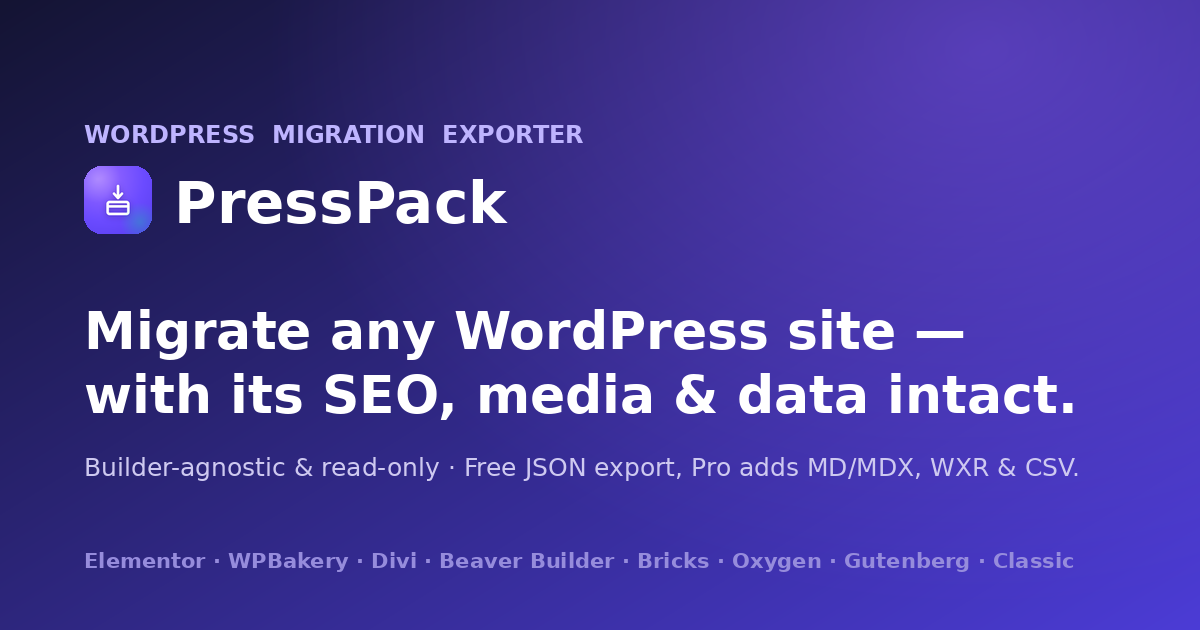
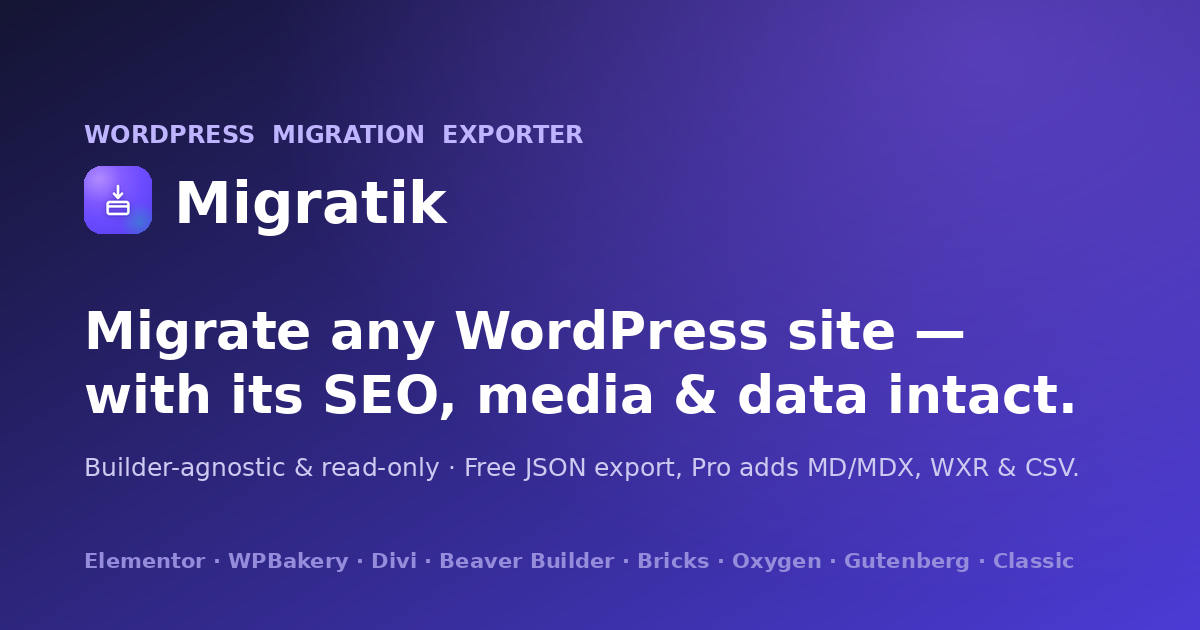
Rebrand landing to Migratik

Changed region(s): [[0.1542, 0.2714, 0.4317, 0.3921]]

diff --git a/index.html b/index.html
@@ -3,21 +3,21 @@
 <head>
 <meta charset="UTF-8">
 <meta name="viewport" content="width=device-width, initial-scale=1.0">
-<title>PressPack — Migrate any WordPress site with its SEO, media & data intact</title>
-<meta name="description" content="PressPack packs up any WordPress site — every article, image, SEO signal, and custom field — into one clean file to migrate anywhere. Builder-agnostic and read-only.">
+<title>Migratik — Migrate any WordPress site with its SEO, media & data intact</title>
+<meta name="description" content="Migratik packs up any WordPress site — every article, image, SEO signal, and custom field — into one clean file to migrate anywhere. Builder-agnostic and read-only.">
 <link rel="icon" type="image/png" href="icon.png">
 <meta property="og:type" content="website">
-<meta property="og:site_name" content="PressPack">
-<meta property="og:title" content="PressPack — Migrate any WordPress site with its SEO, media &amp; data intact">
+<meta property="og:site_name" content="Migratik">
+<meta property="og:title" content="Migratik — Migrate any WordPress site with its SEO, media &amp; data intact">
 <meta property="og:description" content="Builder-agnostic, read-only WordPress exporter. Free JSON export; Pro adds Markdown/MDX, WXR, CSV, and one-click media bundling.">
-<meta property="og:url" content="https://hossamhamdy99.github.io/presspack-site/">
-<meta property="og:image" content="https://hossamhamdy99.github.io/presspack-site/og-image.png">
+<meta property="og:url" content="https://hossamhamdy99.github.io/migratik-site/">
+<meta property="og:image" content="https://hossamhamdy99.github.io/migratik-site/og-image.png">
 <meta property="og:image:width" content="1200">
 <meta property="og:image:height" content="630">
 <meta name="twitter:card" content="summary_large_image">
-<meta name="twitter:title" content="PressPack — Migrate any WordPress site, intact">
-<meta name="twitter:description" content="Builder-agnostic, read-only WordPress exporter. Free JSON export; Pro adds Markdown/MDX, WXR, CSV &amp; media bundling.">
-<meta name="twitter:image" content="https://hossamhamdy99.github.io/presspack-site/og-image.png">
+<meta name="twitter:title" content="Migratik — Migrate any WordPress site, intact">
+<meta name="twitter:description" content="Builder-agnostic, read-only WordPress exporter. Free JSON export; Pro adds Markdown/MDX, WXR, CSV & media bundling.">
+<meta name="twitter:image" content="https://hossamhamdy99.github.io/migratik-site/og-image.png">
 <style>
   :root{
     --ink:#0f1222; --ink-2:#2a2f45; --muted:#5b6178; --line:#e7e9f2;
@@ -151,14 +151,14 @@
 
 <nav>
   <div class="wrap nav-in">
-    <div class="logo"><span class="mark">◲</span> PressPack</div>
+    <div class="logo"><span class="mark">◲</span> Migratik</div>
     <div class="nav-links">
       <a href="#how">How it works</a>
       <a href="#formats">Formats</a>
       <a href="#proof">Proof</a>
       <a href="#pricing">Pricing</a>
     </div>
-    <a href="#pricing" class="btn btn-primary" style="padding:10px 20px;font-size:15px">Get PressPack Pro</a>
+    <a href="#pricing" class="btn btn-primary" style="padding:10px 20px;font-size:15px">Get Migratik Pro</a>
   </div>
 </nav>
 
@@ -167,9 +167,9 @@
   <div class="wrap">
     <div class="eyebrow">WordPress migration, done right</div>
     <h1>Move any WordPress site — with its SEO, media &amp; data intact.</h1>
-    <p class="sub">PressPack packs up your entire site — every article, page, custom post type, image, and SEO signal — and exports it to whatever your new stack needs. Headless, another WordPress, or a spreadsheet. No developer required.</p>
+    <p class="sub">Migratik packs up your entire site — every article, page, custom post type, image, and SEO signal — and exports it to whatever your new stack needs. Headless, another WordPress, or a spreadsheet. No developer required.</p>
     <div class="cta-row">
-      <a href="#pricing" class="btn btn-primary">Get PressPack Pro →</a>
+      <a href="#pricing" class="btn btn-primary">Get Migratik Pro →</a>
       <a href="#how" class="btn btn-ghost">See how it works</a>
     </div>
     <p class="note">Free core plugin — coming soon to WordPress.org · Pro unlocks every format &amp; one-click media bundling · Read-only &amp; safe</p>
@@ -265,7 +265,7 @@
     <div class="proof">
       <div class="eyebrow" style="color:#a68bff">Proven on a real migration</div>
       <h2>A live clinic site → Next.js, nothing lost.</h2>
-      <p class="lead">PressPack was built migrating a real WPBakery + JetEngine clinic site to a headless stack. Every doctor profile, article, and image came across — including Arabic slugs and filenames.</p>
+      <p class="lead">Migratik was built migrating a real WPBakery + JetEngine clinic site to a headless stack. Every doctor profile, article, and image came across — including Arabic slugs and filenames.</p>
       <div class="stats">
         <div class="stat"><div class="n">100%</div><div class="l">of data captured</div></div>
         <div class="stat"><div class="n">41</div><div class="l">media files bundled, self-contained</div></div>
@@ -282,7 +282,7 @@
     <div class="section-head" style="margin-inline:auto;text-align:center">
       <div class="eyebrow">Pricing</div>
       <h2>Simple, one-time-friendly pricing.</h2>
-      <p style="margin-inline:auto">Migration is often a one-time job — so PressPack Pro is priced to pay for itself on a single migration. One year of updates &amp; support; renew only if you want to.</p>
+      <p style="margin-inline:auto">Migration is often a one-time job — so Migratik Pro is priced to pay for itself on a single migration. One year of updates &amp; support; renew only if you want to.</p>
     </div>
     <div class="price-grid">
       <div class="price">
@@ -331,7 +331,7 @@
       <div class="eyebrow">FAQ</div>
       <h2>Questions, answered.</h2>
     </div>
-    <details open><summary>Is it safe to run on a live site?</summary><p>Yes. PressPack is read-only — it only reads your content and hands you a file. It never changes your posts, database, or settings, and leaves nothing behind when deleted.</p></details>
+    <details open><summary>Is it safe to run on a live site?</summary><p>Yes. Migratik is read-only — it only reads your content and hands you a file. It never changes your posts, database, or settings, and leaves nothing behind when deleted.</p></details>
     <details><summary>Which page builders are supported?</summary><p>Elementor, WPBakery, Divi, Beaver Builder, Bricks, Oxygen, Gutenberg, and the Classic editor. Each item is rendered with the right method and tagged so nothing renders empty.</p></details>
     <details><summary>Do I need to be a developer?</summary><p>No. Everything happens with a dropdown and a button inside your WordPress admin — pick a format, click download. No command line, no code.</p></details>
     <details><summary>What happens to my images?</summary><p>With Pro, one click bundles every image and file alongside the export and rewrites the URLs to the packaged copies — including responsive <code>srcset</code> sizes. The result is fully self-contained.</p></details>
@@ -345,15 +345,15 @@
     <div class="final">
       <h2>Migrate once. Lose nothing.</h2>
       <p>The free core lands on WordPress.org soon — then unlock every format and one-click media bundling when you’re ready to move.</p>
-      <a href="#pricing" class="btn btn-primary">Get PressPack Pro →</a>
+      <a href="#pricing" class="btn btn-primary">Get Migratik Pro →</a>
     </div>
   </div>
 </section>
 
 <footer>
   <div class="wrap foot-in">
-    <div class="logo" style="font-size:16px"><span class="mark" style="width:24px;height:24px;font-size:13px">◲</span> PressPack</div>
-    <div>© 2026 PressPack · Built by Hossam Hamdy · A builder-agnostic WordPress migration exporter.</div>
+    <div class="logo" style="font-size:16px"><span class="mark" style="width:24px;height:24px;font-size:13px">◲</span> Migratik</div>
+    <div>© 2026 Migratik · Built by Hossam Hamdy · A builder-agnostic WordPress migration exporter.</div>
   </div>
 </footer>
 